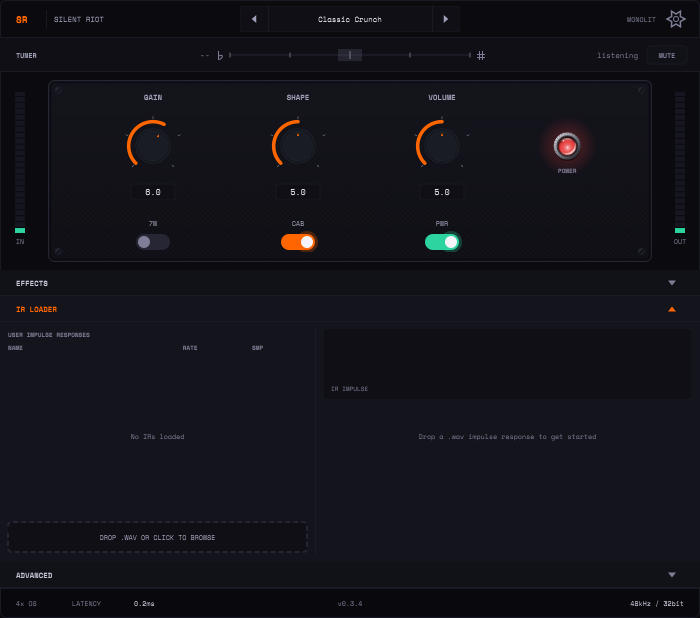
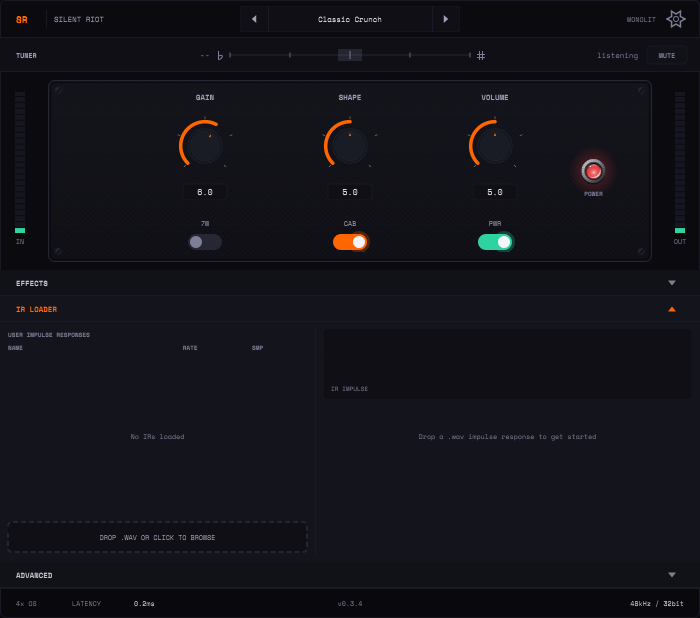
feat(gui): centre SHAPE on the faceplate, smaller lamp centred on the right
SHAPE sits dead centre with GAIN and VOLUME 145 px either side. The pilot lamp
lens drops to 8 px radius and sits midway between VOLUME's dial and the right
edge, centred top to bottom. Main-window screenshot regenerated.

diff --git a/src/PluginEditor.cpp b/src/PluginEditor.cpp
@@ -617,15 +617,12 @@ void SilentRiotEditor::layoutContent()
     const auto plate = body.reduced(8, 8);
     faceplate.setBounds(plate);
 
-    // GAIN, SHAPE, VOLUME and the lamp share one row, spaced evenly across the
-    // faceplate by what each one visibly occupies (the 80px dial; the lamp and
-    // its POWER label), so the gaps between them and to the edges all match.
-    // Each toggle sits under its knob's column.
-    constexpr int dialW = 80, lampW = 40;
-    const float gap = static_cast<float>(plate.getWidth() - dialW * 3 - lampW) / 5.0f;
+    // SHAPE sits dead centre on the faceplate with GAIN and VOLUME a fixed pitch
+    // either side. Each toggle sits under its knob's column.
+    constexpr int dialW = 80, knobPitch = 145;
+    const float plateCentreX = static_cast<float>(plate.getX()) + plate.getWidth() * 0.5f;
     const auto columnX = [&](int i) {
-        return static_cast<float>(plate.getX()) + gap * static_cast<float>(i + 1)
-             + static_cast<float>(dialW * i) + (i < 3 ? dialW : lampW) * 0.5f;
+        return plateCentreX + static_cast<float>(knobPitch * (i - 1));
     };
 
     // knobH only reserves paint space: NotchKnob draws the label, the dial
@@ -648,11 +645,12 @@ void SilentRiotEditor::layoutContent()
         toggles[i]->setBounds(x - toggleW / 2, toggleY, toggleW, toggleH);
     }
 
-    // The lamp sits level with the dial centres: below the label strip, in the
-    // middle of the dial NotchKnob fits between label and readout.
-    const float dialCentreY = static_cast<float>(gainKnob.getSlider().getBounds().getCentreY() + knobY);
-    faceplate.setLampCentre({ columnX(3) - static_cast<float>(plate.getX()),
-                              dialCentreY - static_cast<float>(plate.getY()) });
+    // The lamp sits midway between VOLUME's dial and the faceplate's right
+    // edge, centred top to bottom.
+    const float volumeDialRight = columnX(2) + dialW * 0.5f;
+    faceplate.setLampCentre({ (volumeDialRight + static_cast<float>(plate.getRight())) * 0.5f
+                                  - static_cast<float>(plate.getX()),
+                              plate.getHeight() * 0.5f });
 
     fxSectionBar.setBounds(area.removeFromTop(kSectionH));
     int fxH = static_cast<int>(fxPanelAnimH);

diff --git a/src/gui/AmpFaceplate.cpp b/src/gui/AmpFaceplate.cpp
@@ -211,7 +211,7 @@ void AmpFaceplate::paint(juce::Graphics& g)
     drawScrew(g, b.getRight() - inset, b.getBottom() - inset);
 
     // ── Glass pilot lamp, placed by the editor in the knob row ──
-    const float midY = lampCentre.y, lx = lampCentre.x, r = 9.5f;
+    const float midY = lampCentre.y, lx = lampCentre.x, r = 8.0f;
     paintLamp(g, { lx, midY }, r, Colours::red, powered ? 1.0f : 0.0f);
 
     g.setColour(Colours::dim);

diff --git a/.agents/STATE.md b/.agents/STATE.md
@@ -28,8 +28,8 @@ _Updated 2026-10-29_
 5. E3 last: repoint the gate to `tests/fixtures/ir/bright.wav`, then fix the engine aliasing.
 6. GitHub Actions has failed every run since 2026-10-09; recheck once public (free runners).
 7. Owner: amp faceplate (`feat/amp-faceplate`, `src/gui/AmpFaceplate.*`) approved, wordmark removed.
-   Pilot lamp is a deep-ruby glass dome (9.5 px lens); amp knob labels sit on top; knobs + lamp share
-   one evenly spaced row, toggles under their knobs. Main screenshot refreshed. Still open: lamp
+   Pilot lamp is a deep-ruby glass dome (8 px lens), vertically centred right of VOLUME; amp knob
+   labels on top; SHAPE dead centre, toggles under their knobs. Screenshot refreshed. Open: lamp
    colour, weave strength, keep the "POWER" label?
 
 ## Decisions
